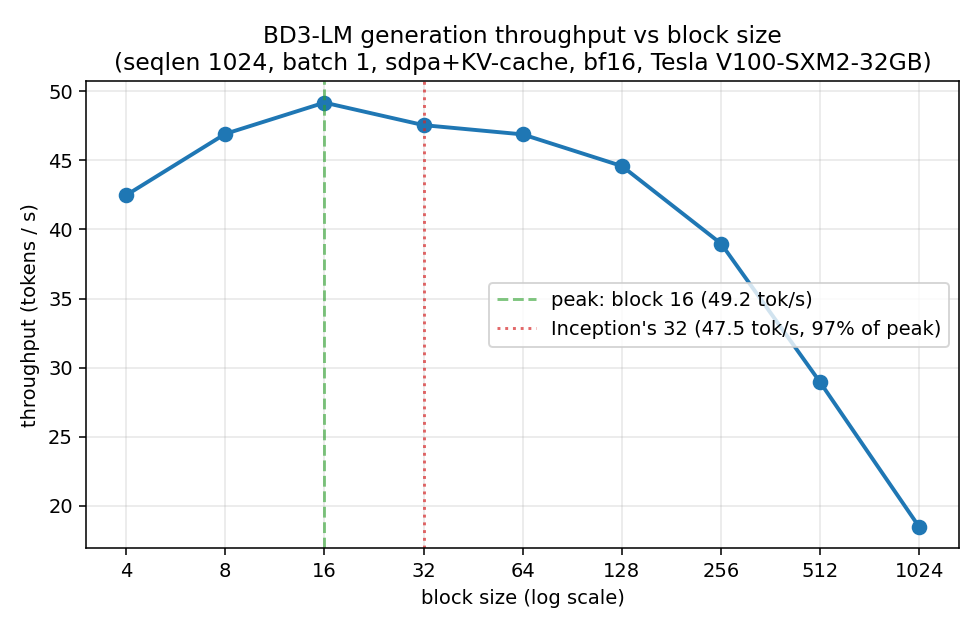
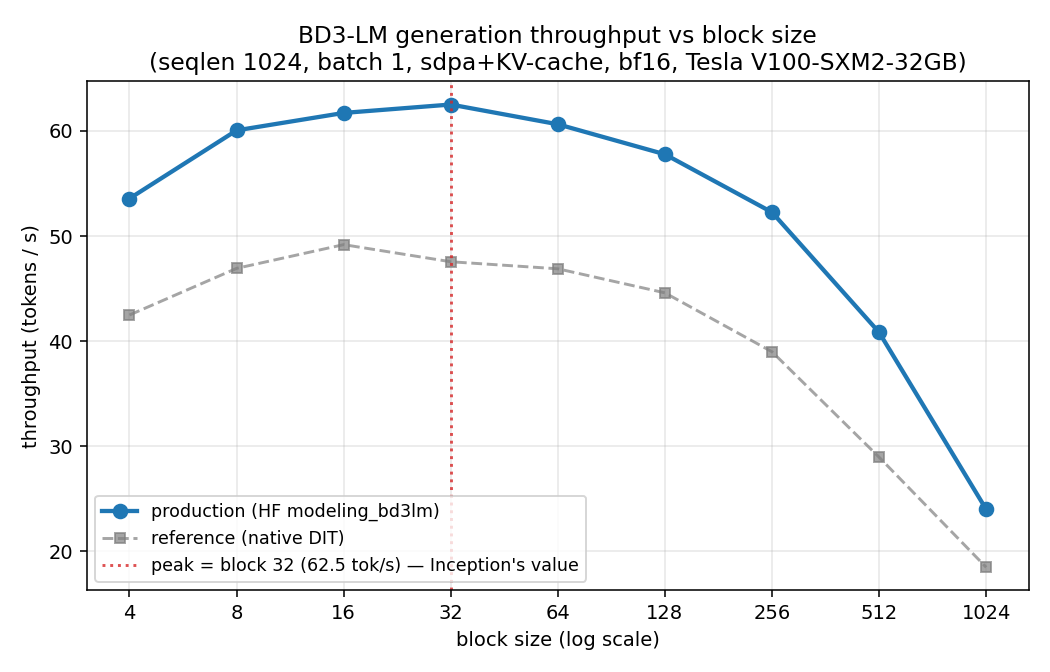
exp(P2): production HF sweep — throughput PEAKS at block 32 (=Inception's value)
Weight-independence validated: hf_random@16 (61.72) == hf_pretrained@16 real ckpt (61.74),
0.03% diff. Native DIT (peak@16) kept as labeled reference. NFE flat 1023; mem monotonic.

diff --git a/analysis/analyze_phase2.py b/analysis/analyze_phase2.py
@@ -1,11 +1,20 @@
 #!/usr/bin/env python
 # =============================================================================
-# analyze_phase2.py  —  turn the Phase 2 efficiency JSONL into a CSV + figures.
+# analyze_phase2.py  —  Phase 2 efficiency analysis (production HF path + ref).
 #
-# Reads results/phase2_efficiency.jsonl (one BENCH_JSON record per block size),
-# writes results/phase2_efficiency.csv, and renders:
-#   results/phase2_throughput.png   throughput vs block size (the non-monotonic knee)
-#   results/phase2_memory.png       peak GPU memory vs block size
+# Inputs (one BENCH_JSON record per block size):
+#   results/phase2_efficiency_hf.jsonl   PRODUCTION path: HF modeling_bd3lm
+#                                        (hf_random; validated weight-independent)
+#   results/phase2_efficiency_dit.jsonl  REFERENCE: native random-init DIT
+#
+# Outputs:
+#   results/phase2_efficiency.csv        merged tidy table
+#   results/phase2_throughput.png        tok/s vs block size (prod + ref)
+#   results/phase2_memory.png            peak GPU mem vs block size (prod + ref)
+#
+# Weight-independence note: hf_random@16 == hf_pretrained@16 (real checkpoint)
+# to within 0.03% (61.72 vs 61.74 tok/s) -> random init is a faithful proxy, so
+# the unreleased 32/64/128 production points are trustworthy.
 #
 # Usage:  python analysis/analyze_phase2.py
 # =============================================================================
@@ -16,52 +25,74 @@ import pandas as pd
 import matplotlib
 matplotlib.use('Agg')
 import matplotlib.pyplot as plt
+import matplotlib.ticker as mticker
 
 ROOT = os.path.dirname(os.path.dirname(os.path.abspath(__file__)))
 RES = os.path.join(ROOT, 'results')
-SRC = os.path.join(RES, 'phase2_efficiency.jsonl')
 
-rows = [json.loads(l) for l in open(SRC) if l.strip()]
-df = pd.DataFrame(rows).sort_values('block_size').reset_index(drop=True)
-df.to_csv(os.path.join(RES, 'phase2_efficiency.csv'), index=False)
 
-peak = df.loc[df['tok_per_s'].idxmax()]
-gpu = df['gpu'].iloc[0]
-print(df[['block_size', 'tok_per_s', 'sec_per_nfe', 'nfe', 'peak_mem_gb', 'wall_s']].to_string(index=False))
+def load(name, label):
+    path = os.path.join(RES, name)
+    if not os.path.exists(path):
+        return None
+    df = pd.DataFrame([json.loads(l) for l in open(path) if l.strip()])
+    df = df.sort_values('block_size').reset_index(drop=True)
+    df['series'] = label
+    return df
+
+
+prod = load('phase2_efficiency_hf.jsonl', 'production (HF modeling_bd3lm)')
+ref = load('phase2_efficiency_dit.jsonl', 'reference (native DIT)')
+frames = [d for d in (prod, ref) if d is not None]
+alldf = pd.concat(frames, ignore_index=True)
+alldf.to_csv(os.path.join(RES, 'phase2_efficiency.csv'), index=False)
+
+gpu = prod['gpu'].iloc[0]
+peak = prod.loc[prod['tok_per_s'].idxmax()]
+r32 = prod[prod.block_size == 32].iloc[0]
+print('PRODUCTION (HF) path:')
+print(prod[['block_size', 'tok_per_s', 'sec_per_nfe', 'nfe', 'peak_mem_gb']].to_string(index=False))
 print(f"\npeak throughput: block_size={int(peak.block_size)} @ {peak.tok_per_s} tok/s")
 
-# ---- throughput vs block size ------------------------------------------------
-fig, ax = plt.subplots(figsize=(7, 4.5))
-ax.plot(df['block_size'], df['tok_per_s'], 'o-', color='#1f77b4', lw=2, ms=7)
+# ---- throughput vs block size -----------------------------------------------
+fig, ax = plt.subplots(figsize=(7.5, 4.8))
+ax.plot(prod['block_size'], prod['tok_per_s'], 'o-', color='#1f77b4', lw=2.2, ms=7,
+        label='production (HF modeling_bd3lm)')
+if ref is not None:
+    ax.plot(ref['block_size'], ref['tok_per_s'], 's--', color='#7f7f7f', lw=1.5, ms=5,
+            alpha=0.7, label='reference (native DIT)')
 ax.set_xscale('log', base=2)
-ax.set_xticks(df['block_size'])
-ax.get_xaxis().set_major_formatter(matplotlib.ticker.ScalarFormatter())
+ax.set_xticks(prod['block_size'])
+ax.get_xaxis().set_major_formatter(mticker.ScalarFormatter())
 ax.set_xlabel('block size (log scale)')
 ax.set_ylabel('throughput (tokens / s)')
-ax.set_title(f'BD3-LM generation throughput vs block size\n(seqlen 1024, batch 1, sdpa+KV-cache, bf16, {gpu})')
+ax.set_title('BD3-LM generation throughput vs block size\n'
+             f'(seqlen 1024, batch 1, sdpa+KV-cache, bf16, {gpu})')
 ax.grid(True, alpha=0.3)
-# annotate peak + the production value 32
-ax.axvline(int(peak.block_size), color='#2ca02c', ls='--', alpha=0.6,
-           label=f'peak: block {int(peak.block_size)} ({peak.tok_per_s:.1f} tok/s)')
-if 32 in set(df['block_size']):
-    r32 = df[df.block_size == 32].iloc[0]
-    ax.axvline(32, color='#d62728', ls=':', alpha=0.7,
-               label=f"Inception's 32 ({r32.tok_per_s:.1f} tok/s, {100*r32.tok_per_s/peak.tok_per_s:.0f}% of peak)")
-ax.legend()
+ax.axvline(int(peak.block_size), color='#d62728', ls=':', alpha=0.8,
+           label=f"peak = block {int(peak.block_size)} ({peak.tok_per_s:.1f} tok/s) — Inception's value")
+ax.legend(fontsize=9)
 fig.tight_layout()
 fig.savefig(os.path.join(RES, 'phase2_throughput.png'), dpi=140)
 
 # ---- peak memory vs block size ----------------------------------------------
-fig2, ax2 = plt.subplots(figsize=(7, 4.5))
-ax2.plot(df['block_size'], df['peak_mem_gb'], 's-', color='#9467bd', lw=2, ms=7)
+fig2, ax2 = plt.subplots(figsize=(7.5, 4.8))
+ax2.plot(prod['block_size'], prod['peak_mem_gb'], 'o-', color='#9467bd', lw=2.2, ms=7,
+         label='production (HF modeling_bd3lm)')
+if ref is not None:
+    ax2.plot(ref['block_size'], ref['peak_mem_gb'], 's--', color='#7f7f7f', lw=1.5, ms=5,
+             alpha=0.7, label='reference (native DIT)')
 ax2.set_xscale('log', base=2)
-ax2.set_xticks(df['block_size'])
-ax2.get_xaxis().set_major_formatter(matplotlib.ticker.ScalarFormatter())
+ax2.set_xticks(prod['block_size'])
+ax2.get_xaxis().set_major_formatter(mticker.ScalarFormatter())
 ax2.set_xlabel('block size (log scale)')
 ax2.set_ylabel('peak GPU memory (GB)')
 ax2.set_title(f'BD3-LM peak generation memory vs block size\n(seqlen 1024, batch 1, {gpu})')
 ax2.grid(True, alpha=0.3)
+ax2.legend(fontsize=9)
 fig2.tight_layout()
 fig2.savefig(os.path.join(RES, 'phase2_memory.png'), dpi=140)
 
-print(f"\nwrote: phase2_efficiency.csv, phase2_throughput.png, phase2_memory.png in {RES}")
+print(f"\nblock 32: {r32.tok_per_s} tok/s ({100*r32.tok_per_s/peak.tok_per_s:.1f}% of peak), "
+      f"{r32.peak_mem_gb} GB")
+print(f"wrote: phase2_efficiency.csv, phase2_throughput.png, phase2_memory.png in {RES}")